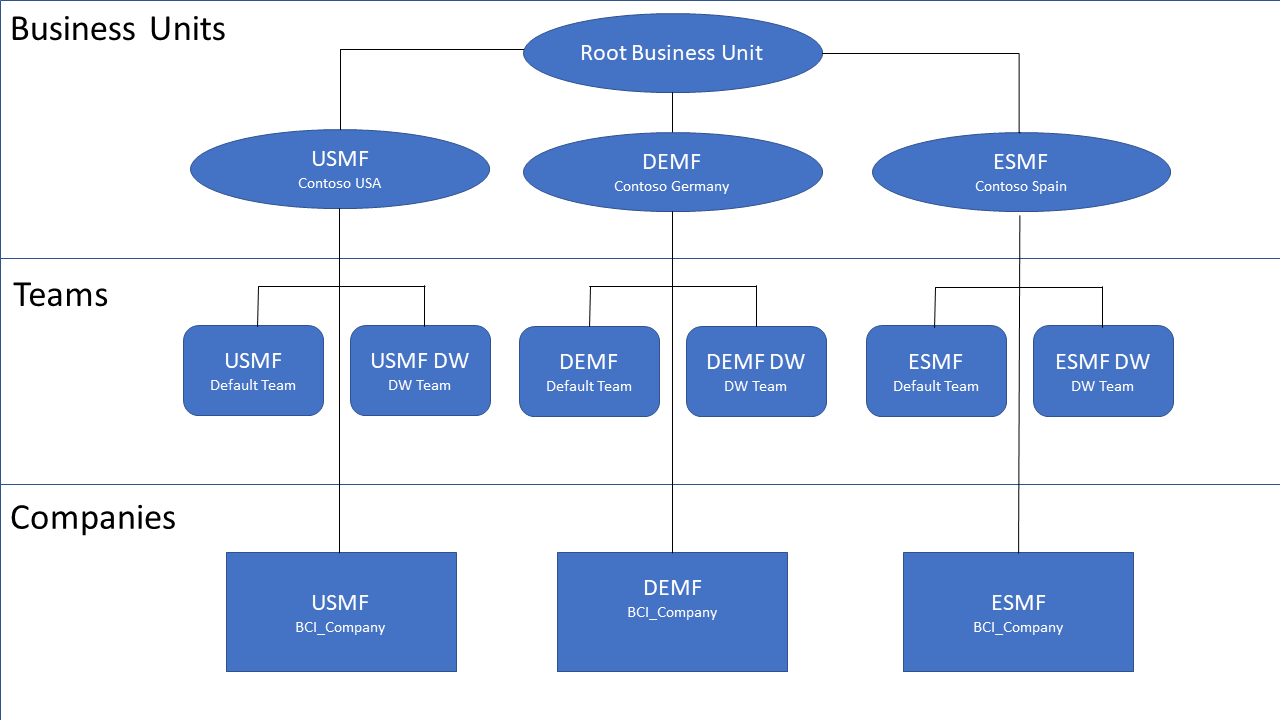
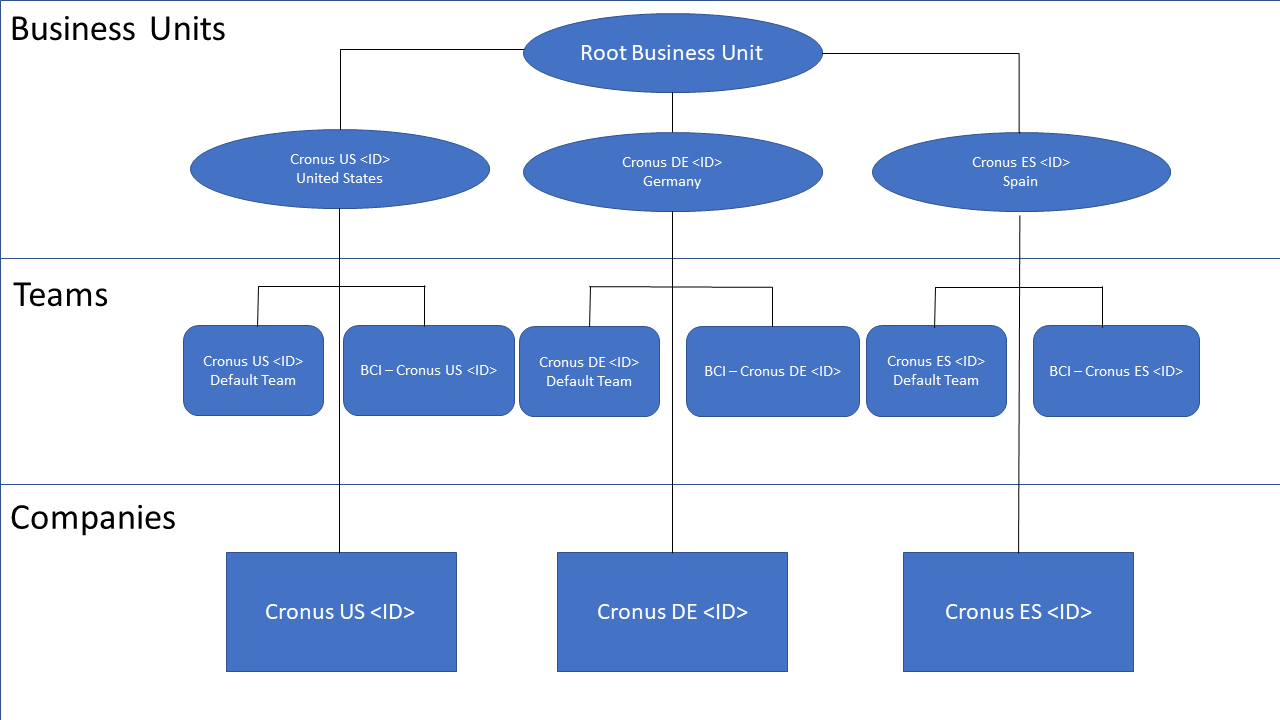
Tech review - Andrey

diff --git a/business-central/admin-cds-company-concept.md b/business-central/admin-cds-company-concept.md
@@ -15,9 +15,7 @@ ms.author: bholtorf
 ---
 
 # Data Ownership Models
-[!INCLUDE[d365fin](includes/cds_long_md.md)] requires that you specify an owner for that data you store. For more information, see [Entity ownership](https://docs.microsoft.com/powerapps/maker/common-data-service/types-of-entities#entity-ownership).
-
-When you set up integration between [!INCLUDE[d365fin](includes/cds_long_md.md)] and [!INCLUDE[d365fin](includes/d365fin_md.md)] you must choose one of two ownership models for records that are synchronized:
+[!INCLUDE[d365fin](includes/cds_long_md.md)] requires that you specify an owner for the data you store. For more information, see [Entity ownership](https://docs.microsoft.com/powerapps/maker/common-data-service/types-of-entities#entity-ownership). When you set up integration between [!INCLUDE[d365fin](includes/cds_long_md.md)] and [!INCLUDE[d365fin](includes/d365fin_md.md)] you must choose one of two ownership models for records that are synchronized:
 
 * Team 
 * Person (user)
@@ -27,37 +25,39 @@ Actions that can be performed on these records can be controlled on a user level
 ## Team Ownership
 In [!INCLUDE[d365fin](includes/d365fin_md.md)], a company is a legal and business entity that offers ways to secure and visualize business data. Users always work in the context of a company. The closest that [!INCLUDE[d365fin](includes/cds_long_md.md)] comes to this concept is the business unit entity, which does not have legal or business implications.
 
-Because business units lack legal and business implications, you cannot force a one-to-one (1:1) mapping to synchronize data between a company and a business unit, either one-way or bi-directional. To enable synchronization, we create an business unit entity named BCI_Company in [!INCLUDE[d365fin](includes/cds_long_md.md)]. This entity is equivalent to the company entity in [!INCLUDE[d365fin](includes/d365fin_md.md)]. To help ensure that records are synchronized in [!INCLUDE[d365fin](includes/d365fin_md.md)] and [!INCLUDE[d365fin](includes/cds_long_md.md)] we recommend the following setup for data in [!INCLUDE[d365fin](includes/cds_long_md.md)]:
+Because business units lack legal and business implications, you cannot force a one-to-one (1:1) mapping to synchronize data between a company and a business unit, either one-way or bi-directional. To make synchronization possible, when you enable synchronization for a company in [!INCLUDE[d365fin](includes/d365fin_md.md)], the following happens in [!INCLUDE[d365fin](includes/cds_long_md.md)]:
 
-* For each [!INCLUDE[d365fin](includes/d365fin_md.md)] company record that is enabled for synchronization, an associated BCI_Company record is created.
-* When new company is created and synchronization is enabled, a default business unit is created that has the same name as the company, prefixed with "BCI." Although a default team is automatically created for that business unit, the business unit is not used. <!--Is the company used instead?-->
-* A separate owner team is created with the same name as the company and associated with the business unit. The name of the team is also prefixed with "BCI." <!--to do what?-->
-* By default, the owner of any record that is created and synchronized to [!INCLUDE[d365fin](includes/cds_long_md.md)] is set to the "DW Owner" team that is linked to the associated business unit.
-* The following image shows an example of this data setup in [!INCLUDE[d365fin](includes/cds_long_md.md)].
+* We create a company entity that is equivalent to the company entity in [!INCLUDE[d365fin](includes/d365fin_md.md)]. The name of the company is suffixed with "BC Company ID." For example, Cronus International Ltd. (93555b1a-af3e-ea11-bb35-000d3a492db1).
+* We create a default business unit that has the same name as the company. For example, Cronus International Ltd. (93555b1a-af3e-ea11-bb35-000d3a492db1).
+* We create separate owner team with the same name as the company and associate it with the business unit. The name of the team is prefixed with "BCI -." For example, BCI - Cronus International Ltd. (93555b1a-af3e-ea11-bb35-000d3a492db1).
+* Records that are created and synchronized to [!INCLUDE[d365fin](includes/cds_long_md.md)] are assigned to the "BCI Owner" team that is linked to the business unit.
+
+The following image shows an example of this data setup in [!INCLUDE[d365fin](includes/cds_long_md.md)].
 
 ![The root business unit is on top, the teams are in the center, and then the companies are at the bottom.](media/cds_bu_team_company.png)
 
-In this configuration, records that are related to the USMF company will be owned by a team that is linked to the USMF business unit in [!INCLUDE[d365fin](includes/cds_long_md.md)]. Users who can access that business unit through a security role that is set to business unit–level visibility <!--where is this set? on the BU or the security role?--> can now see those records. The following example shows how to use teams to provide access to those records.
+In this configuration, records that are related to the Cronus US company will be owned by a team that is linked to the Cronus US <ID> business unit in [!INCLUDE[d365fin](includes/cds_long_md.md)]. Users who can access that business unit through a security role that is set to business unit–level visibility in [!INCLUDE[d365fin](includes/cds_long_md.md)] can now see those records. The following example shows how to use teams to provide access to those records.
 
-* The "Sales Manager" role is assigned to members of the "USMF Sales" team.
-* Users who have the "Sales Manager" role can access any account records that are members of the same business unit that they are members of <!--should this be "as the users."-->.
-* The "USMF Sales" team is linked to the USMF business unit that was mentioned earlier. Members of the "USMF Sales" team can see any account that is owned by the "USMF DW" user, which would have come from the USMF company entity in [!INCLUDE[d365fin](includes/d365fin_md.md)].
+* The Sales Manager role is assigned to members of the Cronus US Sales team.
+* Users who have the Sales Manager role can access account records for members of the same business unit.
+* The Cronus US Sales team is linked to the Cronus US business unit that was mentioned earlier. Members of the Cronus US Sales team can see any account that is owned by the Cronus US <ID> user, which would have come from the Cronus US company entity in [!INCLUDE[d365fin](includes/d365fin_md.md)].
 
 However, the 1:1 mapping between business unit, company, and team is just a starting point, as shown in the following image.
 
 ![The security role controls data visibility.](media/cds_bu_team_company_2.png)
 
-In this example, a new Europe root business unit is created in [!INCLUDE[d365fin](includes/cds_long_md.md)] as the parent for both DEMF and ESMF. The Europe business unit is not related to synchronization. However, it can give members of the EUR Sales team access to account data in both DEMF and ESMF by setting the data visibility to **Parent/Child BU** on the associated security role in [!INCLUDE[d365fin](includes/cds_long_md.md)].
+In this example, a new EUR (Europe) root business unit is created in [!INCLUDE[d365fin](includes/cds_long_md.md)] as the parent for both Cronus DE (Gernamy) and Cronus ES (Spain). The EUR business unit is not related to synchronization. However, it can give members of the EUR Sales team access to account data in both Cronus DE and Cronus ES by setting the data visibility to **Parent/Child BU** on the associated security role in [!INCLUDE[d365fin](includes/cds_long_md.md)].
 
-Synchronization determines which team should own records. This is controlled by the **Default owning team** field on the BCI_Company record. When a BCI_Company record is enabled for synchronization we automatically create the associated business unit and owner team (if it doesn't already exist), and set the **Default owning team** field. When synchronization is enabled for an entity, administrators can change the owning team but cannot clear the field.
+Synchronization determines which team should own records. This is controlled by the **Default owning team** field on the BCI - <ID> record. When a BCI - <ID> record is enabled for synchronization we automatically create the associated business unit and owner team (if it doesn't already exist), and set the **Default owning team** field. When synchronization is enabled for an entity, administrators can change the owning team, but a team must always be assigned.
 
-<!--Image placeholder for Default owning team field-->
+> [!NOTE]
+> Records become read-only after a company is added and saved, so be sure to choose the correct company.
 
-Record values become read-only after a company is added and saved, so be sure to choose the correct company.
-Only records that have company data are eligible for synchronization between the application and [!INCLUDE[d365fin](includes/cds_long_md.md)]. <!--Not sure what this means-->
+### Choosing a different business unit
+You can change the business unit selection. If you choose another unit, for example, one that you created earlier in CDS it will keep its original name. That is, it will not be suffixed with the company ID. We will create a team that does use the naming convention.
 
 ## Person Ownership
-If you choose the Person ownership model you must specify each salesperson who will own new records. The business unit and team described in the previous section are created.  
+If you choose the Person ownership model you must specify each salesperson who will own new records. The business unit and team are created as described in the previous section.  
 
 ## See Also
 [About [!INCLUDE[d365fin](includes/cds_long_md.md)]](admin-common-data-service.md)

diff --git a/business-central/admin-common-data-service.md b/business-central/admin-common-data-service.md
@@ -14,6 +14,9 @@ ms.date: 10/01/2019
 # About Common Data Service
 Business apps often use data from more than one source. [!INCLUDE[d365fin](includes/cds_long_md.md)] combines data into a single set of logic, which makes it easier to connect other Dynamics 365 applications, such as [!INCLUDE[d365fin](includes/cds_long_md.md)], or even your own application built on top of [!INCLUDE[d365fin](includes/cds_long_md.md)], to [!INCLUDE[d365fin_md](includes/d365fin_md.md)]. For more information about [!INCLUDE[d365fin](includes/cds_long_md.md)], see [What is Common Data Service?](https://docs.microsoft.com/powerapps/maker/common-data-service/data-platform-intro).
 
+## Getting Started with [!INCLUDE[d365fin](includes/cds_long_md.md)]
+[!INCLUDE[d365fin](includes/cds_long_md.md)] is 
+
 ## Bi-Directional or Uni-directional Data Synchronization
 Depending on your business needs, you can set up the integration to synchronize data either to or from [!INCLUDE[d365fin](includes/cds_long_md.md)], or in both directions in near-real time. For example, a salesperson can create a sales order in [!INCLUDE[d365fin](includes/cds_long_md.md)], and the order will be synchronized to [!INCLUDE[d365fin](includes/cds_long_md.md)]. Conversely, from [!INCLUDE[d365fin](includes/cds_long_md.md)], the salesperson can view information from [!INCLUDE[d365fin](includes/cds_long_md.md)] about the availability of the item on the order. 
 
